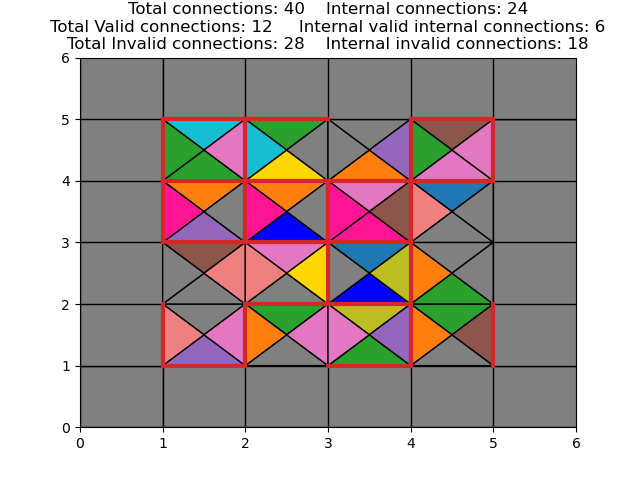
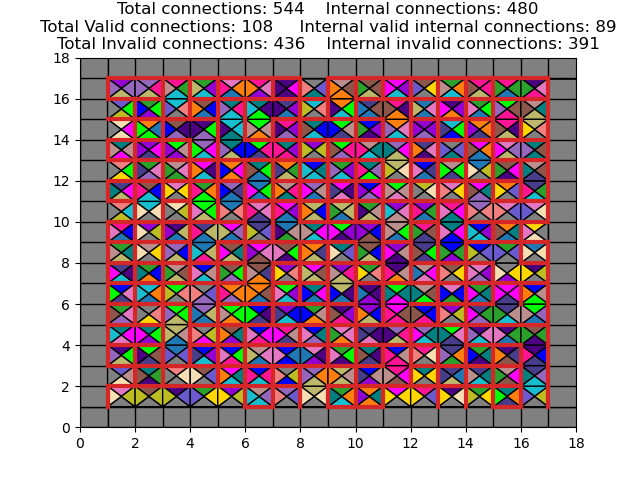
bug fixed

diff --git a/code/solver.py b/code/solver.py
@@ -151,8 +151,26 @@ def simulated_annealing(puzzle):
 
 def children(parent1,parent2,piece_list):
     n = len(piece_list)
+    # # IDEA 1 : split in half
+    # child1 = parent1[:int(n/2)] + parent2[int(n/2):]
+    # child2 = parent2[:int(n/2)] + parent1[int(n/2):]
+    #IDEA 2 : random
+    child1 = []
+    child2 = []
+    for i in range(n):
+        if random.randint(0,1) == 0:
+            child1.append(parent1[i])
+            child2.append(parent2[i])
+        else:
+            child2.append(parent1[i])
+            child1.append(parent2[i])
 
-    child1 = parent1[:int(n/2)] + parent2[int(n/2):]
+    child1,child2 = equilibrate(child1,child2,piece_list)
+    return copy.deepcopy(child1),copy.deepcopy(child2)
+
+def equilibrate(child1,child2,piece_list):
+    # remove double pieces and replace with missing pieces
+    n = len(piece_list)
     piece_inChild1 = [p.id for p in child1]
     missing_inChild1 = [p.id for p in piece_list if p.id not in piece_inChild1]
 
@@ -166,29 +184,29 @@ def children(parent1,parent2,piece_list):
             e = l[0]
             # random chosen element that is missing is child
             i = random.randint(0,len(missing_inChild1) - 1)
-            id = missing_inChild1[i] 
+            id = missing_inChild1.pop(i)
             p = piece_list[id]
             # replace
-            child1[e] = p 
+            child1[e] = p
     
     # same for child 2
-    child2 = parent2[:int(n/2)] + parent1[int(n/2):]
     piece_inChild2 = [p.id for p in child2]
     missing_inChild2 = [p.id for p in piece_list if p.id not in piece_inChild2]
 
     indexes = [[] for _ in range(n)]
     for i,p in enumerate(child2):
-        indexes[p.id].append(i) 
+        indexes[p.id].append(i)
     for l in indexes:
         if len(l) > 1: 
             random.shuffle(l) 
             e = l[0]
             i = random.randint(0,len(missing_inChild2) - 1)
-            id = missing_inChild2[i] 
+            id = missing_inChild2.pop(i)
             p = piece_list[id]
-            child2[e] = p 
-    
+            child2[e] = p
+
     return child1,child2
+
 
 def mutation(child):
     # rotate (or not) for each piece
@@ -206,12 +224,13 @@ def genetic_algorithm(puzzle):
 
     ###############################
     # HYPERPARAMETERS
-    size_population = 50
+    size_population = 300
     assert size_population % 2 == 0, "Size population should be an even number"
     mutation_probability = 0.3
     ###############################
     print("Size population:",size_population)
     print("Mutation probability:",mutation_probability)
+    print("="*30)
 
     # initialize population
     population = []
@@ -220,16 +239,18 @@ def genetic_algorithm(puzzle):
     
     population = sorted(population,key=lambda s: puzzle.get_total_n_conflict(s))
 
-    for k in range(5): # will be replace with time
+    for k in range(1000): # will be replace with time
 
         # classify from best to worst our population
-        if k % 1 == 0:
+        if k % 20 == 0:
             print(k,"Best solution",puzzle.get_total_n_conflict(population[0]))
 
         new_children = []
         for i in range(0,len(population),2):
             parent1,parent2 = population[i],population[i+1] # get two parents
             child1,child2 = children(parent1,parent2,piece_list) # get 2 childs
+            # assert puzzle.verify_solution(child1), f"At {i}\nparent1 : {list(map(lambda p: p.id,parent1))}\nparent2 : {list(map(lambda p: p.id,parent2))}\nchild : {list(map(lambda p: p.id,child1))}"
+            # assert puzzle.verify_solution(child2), f"At {i}\nparent1 : {list(map(lambda p: p.id,parent1))}\nparent2 : {list(map(lambda p: p.id,parent2))}\nchild : {list(map(lambda p: p.id,child2))}"
             if random.random() < mutation_probability: # mutate
                 mutation(child1)
             if random.random() < mutation_probability: # mutate
@@ -239,7 +260,6 @@ def genetic_algorithm(puzzle):
         
         population = population + new_children
         population = sorted(population,key=lambda s: puzzle.get_total_n_conflict(s))
-        print(k,"Best solution",puzzle.get_total_n_conflict(population[0]))
         population = population[:int(len(population)/2)]
 
     population = sorted(population,key=lambda s: puzzle.get_total_n_conflict(s))

diff --git a/code/main.py b/code/main.py
@@ -8,10 +8,10 @@ def parse_arguments():
 
     # Instances parameters
     # parser.add_argument('--infile', type=str, default='instances/eternity_trivialA.txt')
-    parser.add_argument('--infile', type=str, default='instances/eternity_A.txt')
+    # parser.add_argument('--infile', type=str, default='instances/eternity_A.txt')
     # parser.add_argument('--infile', type=str, default='instances/eternity_B.txt')
     # parser.add_argument('--infile', type=str, default='instances/eternity_C.txt')
-    # parser.add_argument('--infile', type=str, default='instances/eternity_Complete.txt')
+    parser.add_argument('--infile', type=str, default='instances/eternity_Complete.txt')
     parser.add_argument('--outfile', type=str, default='output')
     parser.add_argument('--visufile', type=str, default='sol.png')
 
